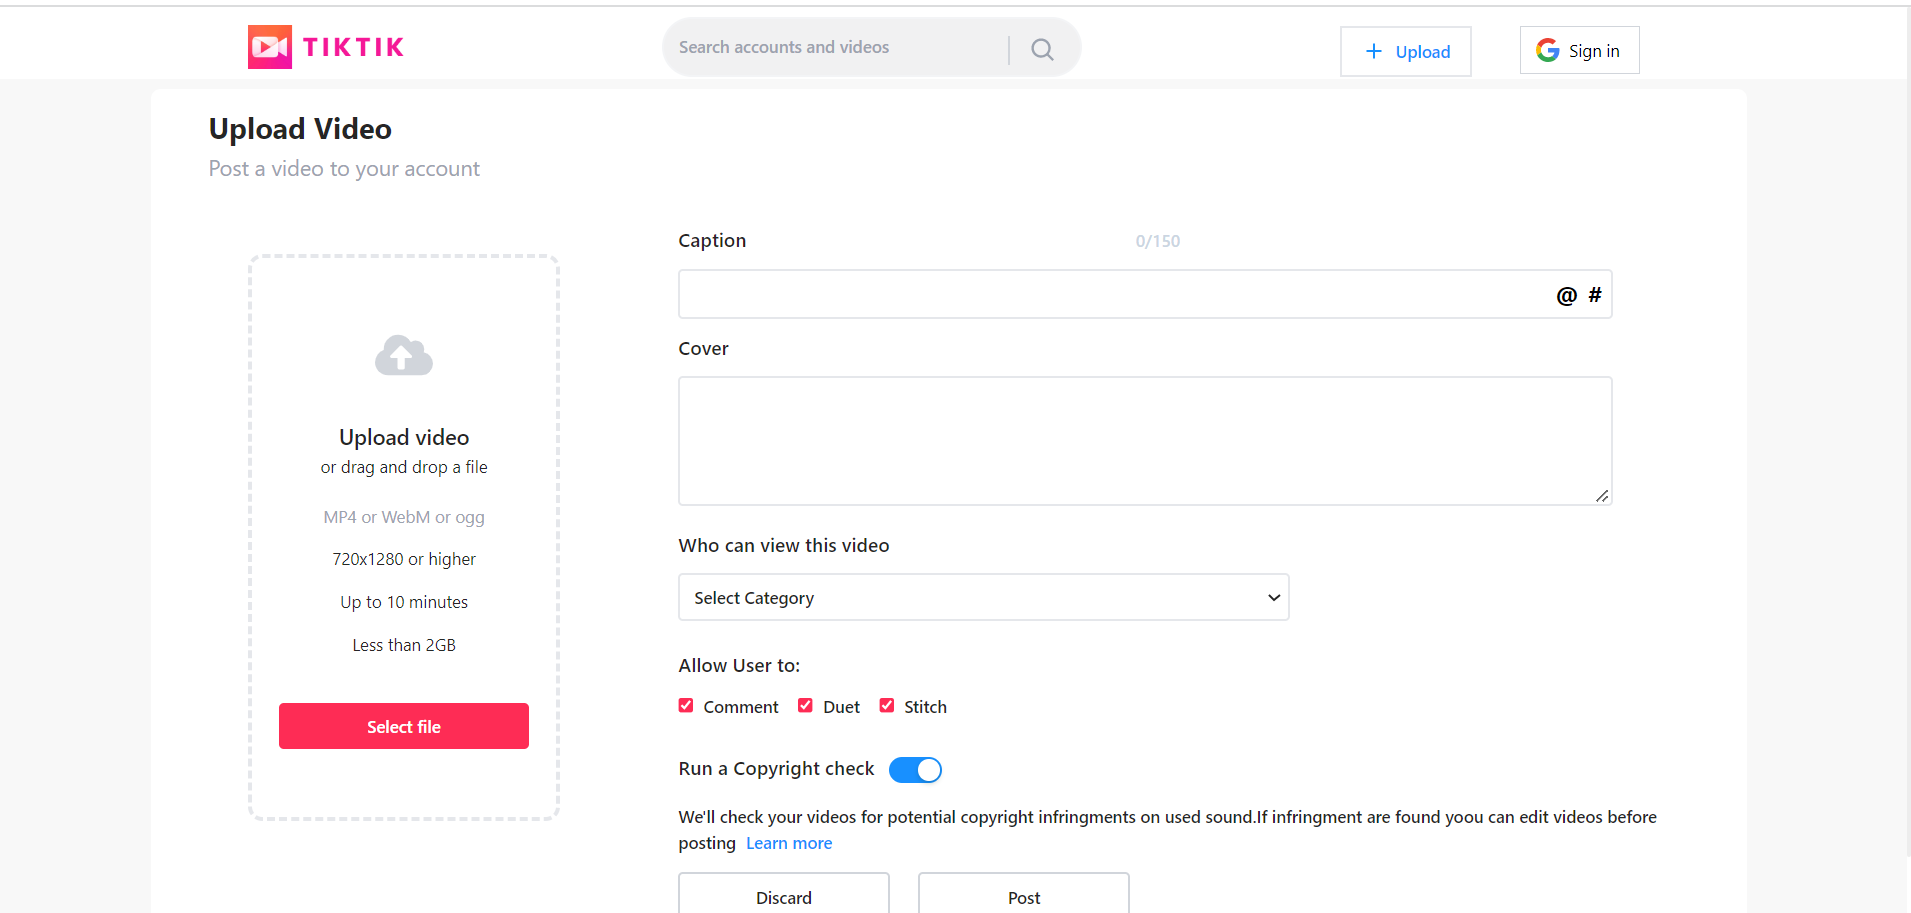
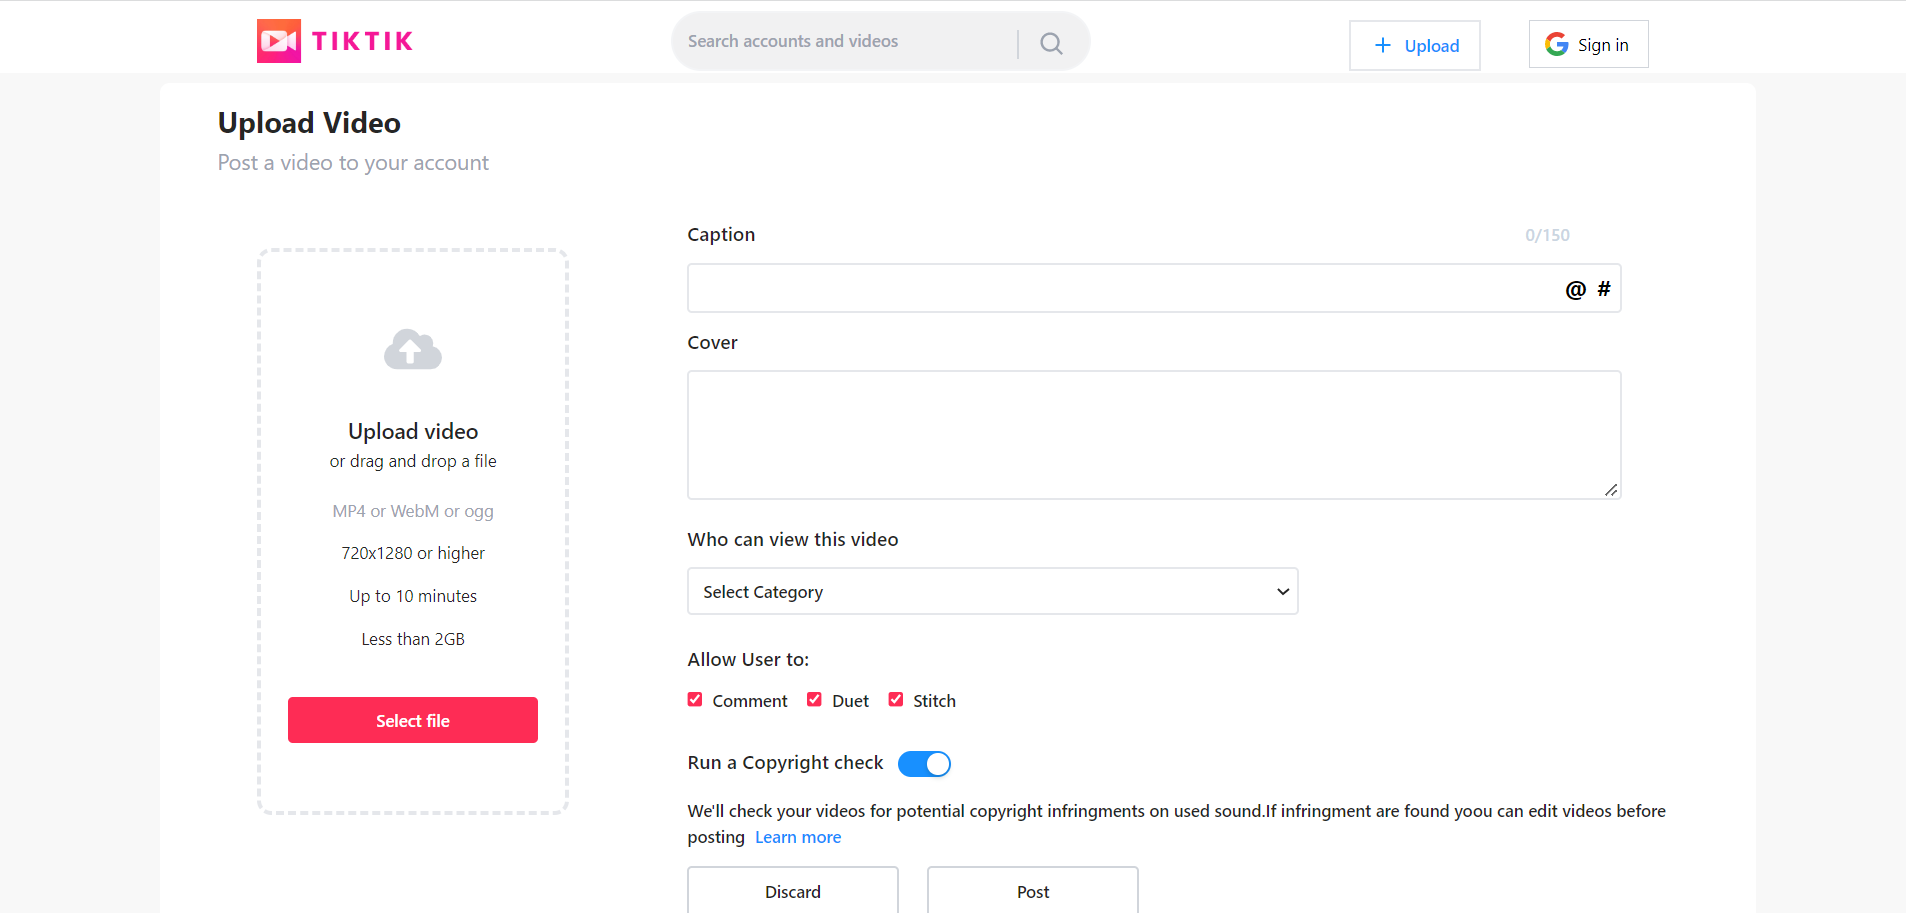
updated v1 27 Oct 2022

diff --git a/pages/upload.tsx b/pages/upload.tsx
@@ -174,7 +174,7 @@ const Upload = () => {
             </div>
           </div>
           <div className="flex flex-col gap-3 pb-10 py-4 font-medium ml-4 md:ml-10 basis-2/3">
-            <label className='mb-0 text-base'>Caption <span className="text-sm text-slate-300 lg:ml-80 md:ml-72 ml-48 ">0/150</span></label>
+            <label className='mb-0 text-base'>Caption <span className="text-sm text-slate-300 relative  sm:left-1/2 md:left-2/3 lg:left-3/4 ">0/150</span></label>
             <div className="flex">
               <input
                 type="text"
